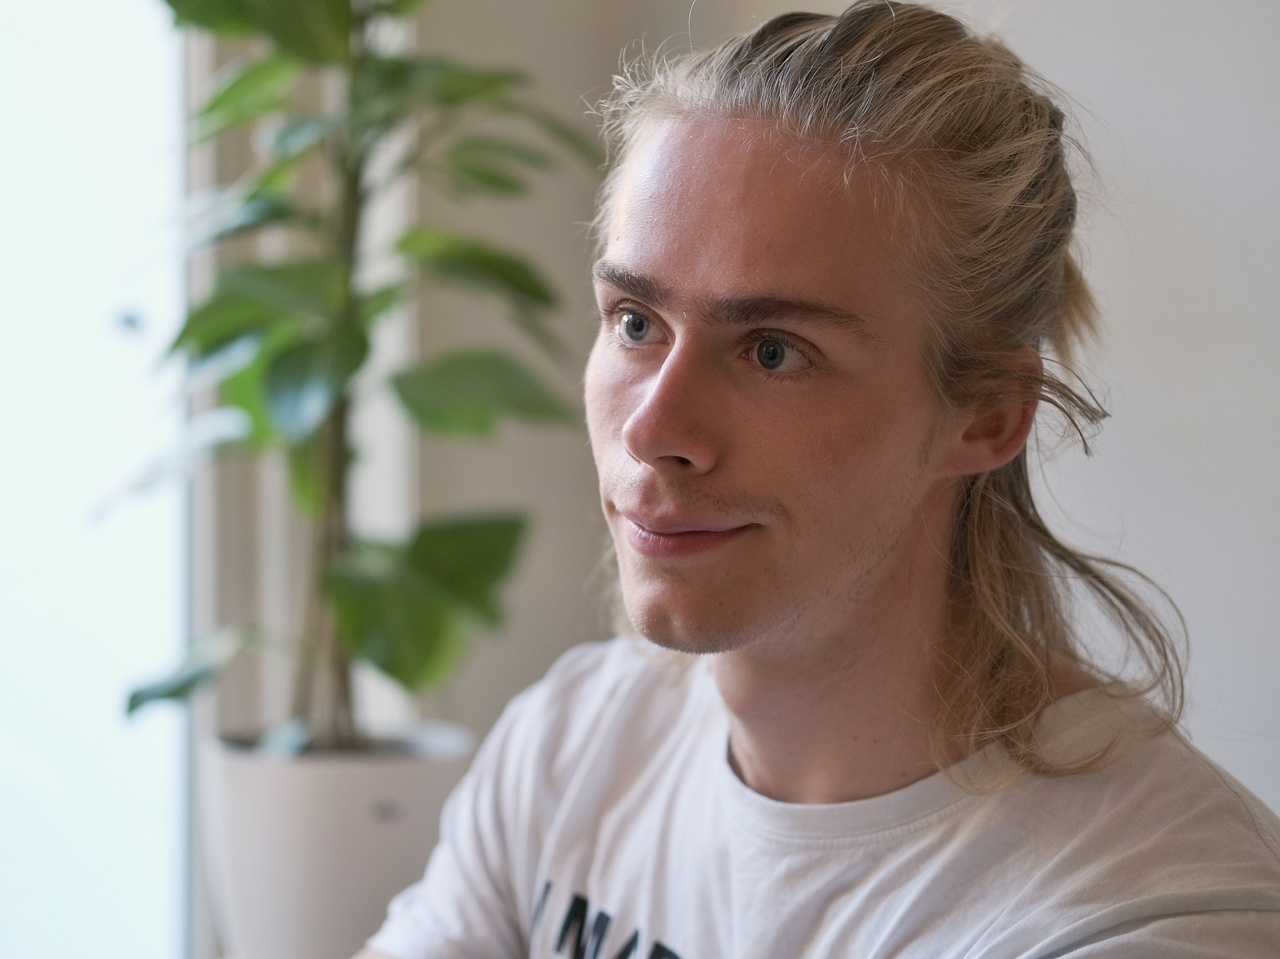
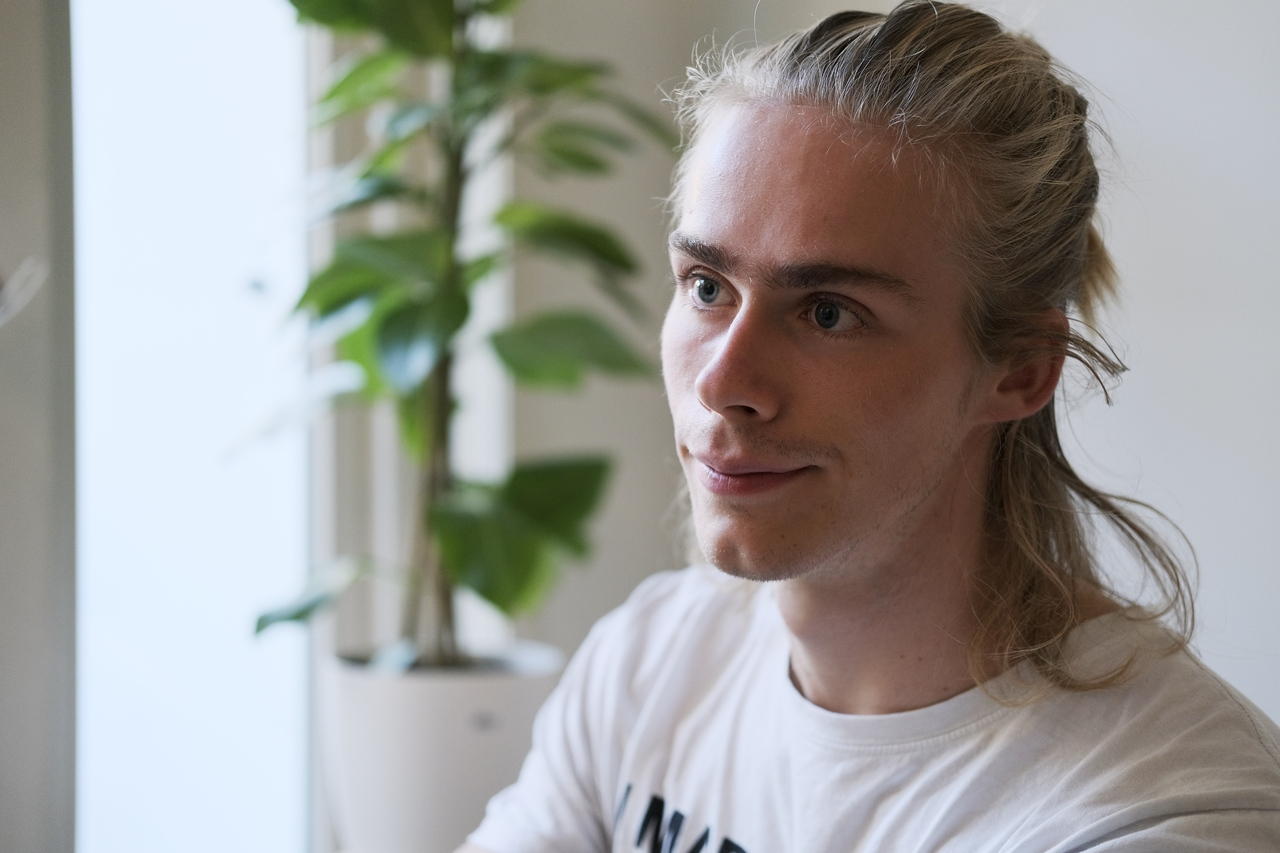
Update portrait on the front page

diff --git a/index.html b/index.html
@@ -4,8 +4,8 @@ title: Home
 ---
 <header>
 	<picture class="portrait">
-	<source srcset="/assets/img/portrait_film_640.webp" type="image/webp">
-	<img src="/assets/img/portrait_film_640.jpg" alt="Portrait of Max Crone; white guy in his twenties, with long blonde hair tied back, natural light coming from one side, smiling and looking past the camera.">
+	<source srcset="/assets/img/portrait_640.webp" type="image/webp">
+	<img src="/assets/img/portrait_640.jpg" alt="Portrait of Max Crone; white guy in his twenties, with long blonde hair tied back, natural light coming from one side, smiling and looking past the camera.">
 	</picture>
     <p class="intro">Hi, my name is <span class="brand-color"><strong>Max</strong></span>! I am a twenty-three year old human from The Netherlands.</p>
     <p class="intro">
